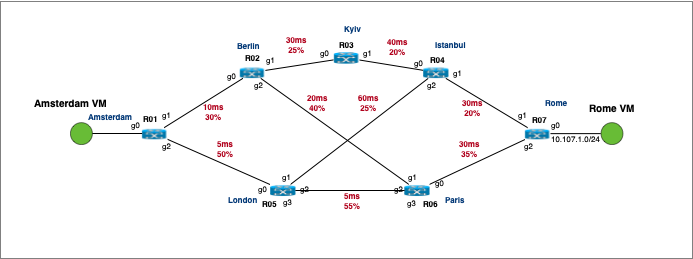
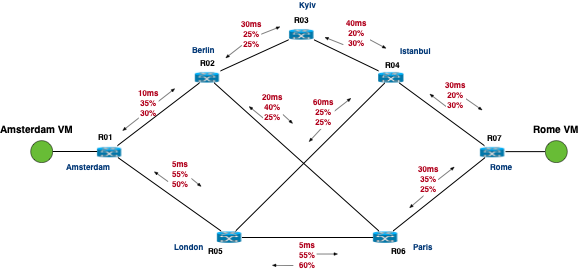
update latency/util diagram

Changed region(s): [[0.0, 0.0, 1.0, 1.0], [0.6828, 0.8031, 0.7138, 0.834]]

diff --git a/lab_6/add_meta_data.py b/lab_6/add_meta_data.py
@@ -253,7 +253,7 @@ srt.update(srt0704)
 srt0605 = srt.get("2_0_0_0_0000.0000.0006_10.1.1.15_0000.0000.0005_10.1.1.14")
 srt0605['prefix_sid'] = prefix_sid05
 srt0605['latency'] = 5
-srt0605['percent_util_out'] = 55
+srt0605['percent_util_out'] = 60
 srt0605['country_codes'] = ['GBR', 'FRA']
 srt.update(srt0605)
 
